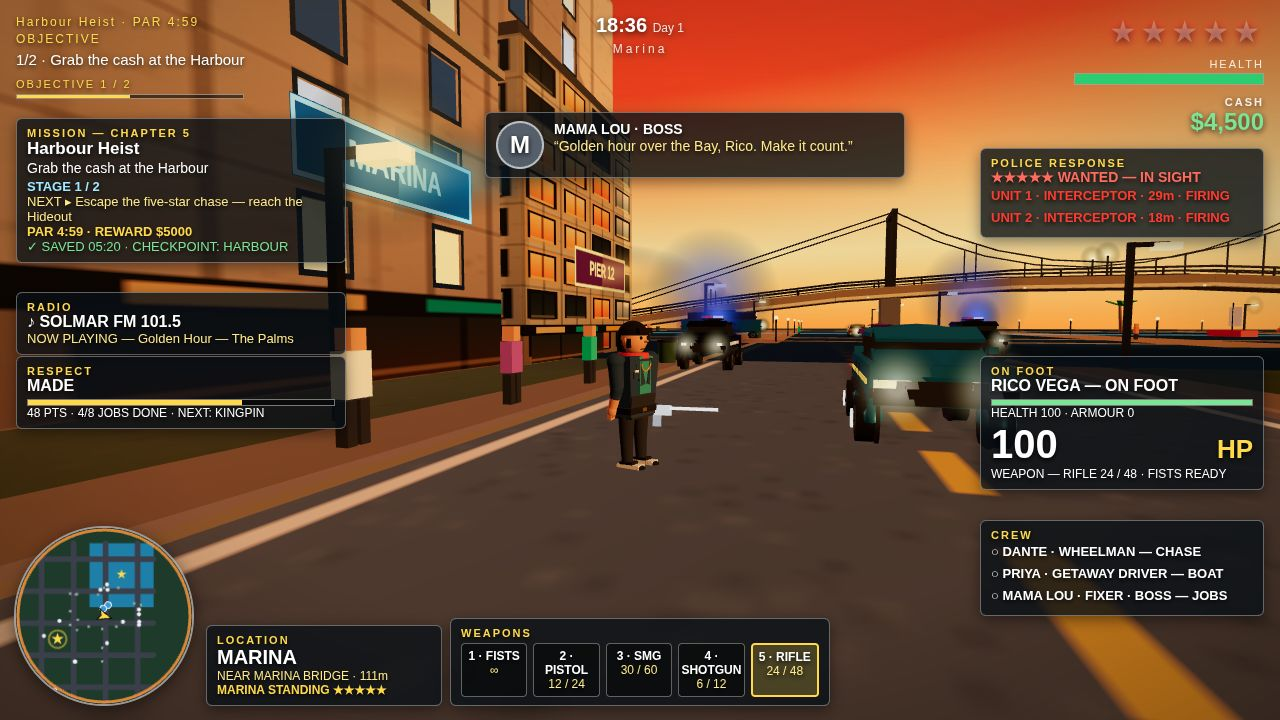
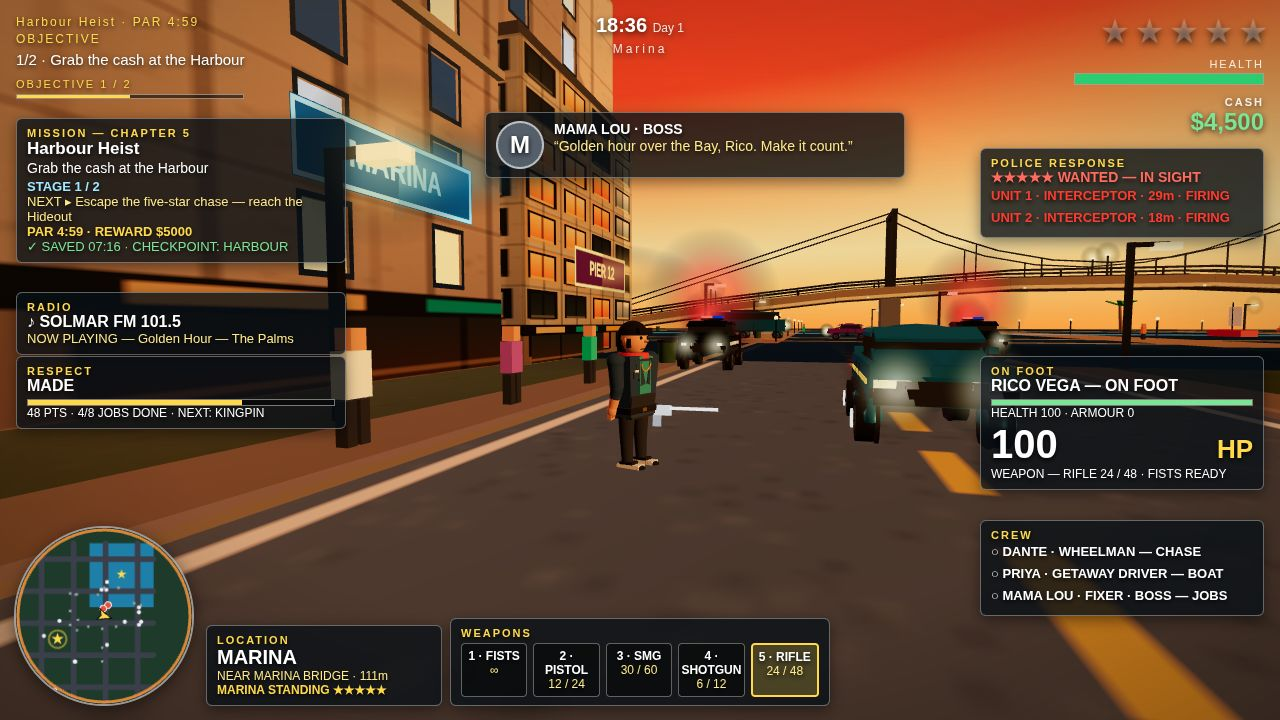
Round 20: cover OBJECTIVE readable + staged cover traffic/lights + west peds
- Cover left stack drops 72px (CONFIG.round20.coverStack 108/190/364/428,
  cover-only): dialogue no longer covers the OBJECTIVE rows (overlap
  8,352 -> 0 px2; gold 57 -> 220/261 px, white 527 -> 638 px), no new
  panel overlaps, respect still ends 501 < minimap 526.
- stageCoverTraffic: 2 staged sedans on the road ahead of the GT (far
  opposite lane with brake lights, near right lane with headlights),
  tracked relative to the car; distinct vehicles 2 -> 4/5 on screen.
- 3 extra staged peds: 1 crossing the road mid-frame + 2 west sidewalk
  (1 -> 3); visible peds 3 -> 6.
- All round 17/18/19 gates hold; test 2x ALL GREEN (252 PASS each).

diff --git a/game/src/main.js b/game/src/main.js
@@ -341,6 +341,11 @@ let coverShopfront = null;
 // target (re-asserted every frame while the shot is staged).
 let shotRoadblock = [];
 let shotRivals = [];
+// Round 20: staged cover traffic (stageCoverTraffic) — { car, dx, dz,
+// heading, key } offsets from the player car, re-asserted every frame
+// like the pursuit roadblock, so the two cars hold their framing at
+// any capture moment while the GT drives on.
+let shotTraffic = [];
 // Round 15: staged pedestrians that TRACK the player car (cover +
 // pursuit) — { ped, dx, dz } offsets from the car, re-asserted every
 // frame in the update loop. The car drives on during the HUD
@@ -1550,6 +1555,21 @@ function update(dt) {
     }
   }
 
+  // Round 20: staged cover traffic tracks the player car (same pattern
+  // as the roadblock above — the GT drives on during the HUD
+  // convergence wait, so fixed world spots would drift up-frame and
+  // shrink to dots by capture time). Staged cars are NOT in
+  // traffic.getCars() and NOT police cars, so nothing else moves them;
+  // the re-assertion is belt-and-braces against any drift.
+  if (SHOT === 'cover-chase' && player.currentCar && shotTraffic.length) {
+    const pc = player.currentCar;
+    for (const st of shotTraffic) {
+      if (!st.car) continue;
+      st.car.position.set(pc.position.x + st.dx, 0, pc.position.z + st.dz);
+      st.car.group.rotation.y = st.heading;
+    }
+  }
+
   // 5. missions.
   missions.update(dt, world, player, systems());
 
@@ -2448,6 +2468,47 @@ function stageCoverShopfront() {
 // exhaust smoke on the GT, peds TRACKED relative to the car (8 / 14 m
 // beyond it on the east sidewalk, 11 m on the west) so they hold their
 // size at capture instead of drifting up-frame as dots.
+// Round 20: two staged traffic cars on the road ahead of the GT (one
+// per lane, different depths) + their lights — the cover road read as
+// mostly empty asphalt with one far interceptor + one red car. The cars
+// are real sculpted sedans from the shared factory (createCar via
+// makeCar, the same factory traffic.js uses), staged like the pursuit
+// rivals and tracked in shotTraffic; the far car shows its BRAKE lights
+// (rear to the camera), the near car its HEADLIGHTS (front to the
+// camera) — the same dusk values traffic.js applies to its own cars.
+// Cover-only: shotTraffic is empty on every other shot, and the cars
+// are never added to traffic.getCars() or police.policeCars, so no
+// gameplay system, panel count or other shot sees them.
+function stageCoverTraffic() {
+  const cfg = CONFIG.round20?.traffic || {};
+  const lc = CONFIG.round20?.lights || {};
+  const car = player.currentCar;
+  if (!car) return [];
+  const made = [];
+  for (const key of ['far', 'near']) {
+    const t = cfg[key];
+    if (!t) continue;
+    const c = makeCar({
+      position: { x: car.position.x + t.dx, y: 0, z: car.position.z + t.dz },
+      heading: t.heading ?? 0, model: t.model || 'sedan',
+      colour: t.colour ?? 0xc23a2a, driver: 'ai',
+    });
+    c.kind = 'cover-traffic';
+    c.speed = 0;
+    c.staged = true;
+    if (t.lights === 'head') {
+      if (c.headMat) c.headMat.emissiveIntensity = lc.headEmissive ?? 1.8;
+      if (Array.isArray(c.headGlows)) for (const g of c.headGlows) if (g) g.opacity = lc.headGlowOpacity ?? 0.95;
+      if (Array.isArray(c.headGlowSprites)) for (const s of c.headGlowSprites) if (s && s.scale) s.scale.setScalar(lc.headGlowScale ?? 1.8);
+    } else if (t.lights === 'tail') {
+      if (c.tailMat) c.tailMat.emissiveIntensity = lc.tailEmissive ?? 2.0;
+      if (Array.isArray(c.tailGlows)) for (const g of c.tailGlows) if (g) g.opacity = lc.tailGlowOpacity ?? 0.95;
+    }
+    shotTraffic.push({ car: c, dx: t.dx, dz: t.dz, heading: t.heading ?? 0, key });
+    made.push(c);
+  }
+  return made;
+}
 function stageCoverChase() {
   state = 'playing';
   showOnly(null);
@@ -2532,6 +2593,15 @@ function stageCoverChase() {
     { roadX: 40, side: 1, z: coverCarZ - 8, heading: -Math.PI / 2 },
     { roadX: 40, side: 1, z: coverCarZ - 14, heading: -Math.PI / 2 },
     { roadX: 40, side: -1, z: coverCarZ - 11, heading: Math.PI / 2 },
+    // Round 20: one ped CROSSING the road mid-frame (side 0 = road
+    // centre, heading across it) + two extra on the west sidewalk
+    // (1 -> 3 there) — the road's left side balances the right, and
+    // the crossing ped puts a person ON the road, not just beside it.
+    // All three ride the same trackStagedPeds offsets as the original
+    // three, so they hold their framing at capture.
+    { roadX: 40, side: 0, z: coverCarZ - 18, heading: Math.PI / 2 },
+    { roadX: 40, side: -1, z: coverCarZ - 20, heading: Math.PI / 2 },
+    { roadX: 40, side: -1, z: coverCarZ - 26, heading: Math.PI / 2 },
   ]);
   trackStagedPeds(coverPlaced);
   // Round 18: the three staged cover peds wear three DIFFERENT vivid
@@ -2539,9 +2609,11 @@ function stageCoverChase() {
   // the variety is deterministic, not a lucky rng draw — the mesh
   // recolour rides on syncPersonMeshes (person.shirt change) and the
   // scale rides on the cached mesh (sync never resets scale).
+  // Round 20: the three new peds get vivid shirts too (green / purple
+  // / red) with varied heights, same mechanism.
   {
-    const coverShirts = ['#e74c3c', '#3498db', '#f39c12'];
-    const coverScales = [1.07, 0.94, 1.0];
+    const coverShirts = ['#e74c3c', '#3498db', '#f39c12', '#2ecc71', '#9b59b6', '#e74c3c'];
+    const coverScales = [1.07, 0.94, 1.0, 1.02, 0.96, 1.05];
     coverPlaced.forEach((ped, i) => {
       if (!ped) return;
       ped.shirt = coverShirts[i % coverShirts.length];
@@ -2549,6 +2621,9 @@ function stageCoverChase() {
       if (mesh) mesh.scale.setScalar(coverScales[i % coverScales.length]);
     });
   }
+  // Round 20: the two staged traffic cars on the road ahead of the GT
+  // (stageCoverTraffic — one per lane, different depths, lights on).
+  stageCoverTraffic();
   // Round 18: warm shopfront + SOLMAR sign + edge trim on the nearest
   // tower face ahead (staging-only, cover frame only).
   stageCoverShopfront();
@@ -2558,15 +2633,31 @@ function stageCoverChase() {
   // clear of the heli zone (right edge 536 < heli bbox left ~580)
   // and of the clock (x 596-647). The round-18 centred box (x
   // 360-920) overlapped the heli bbox by ~7,800 px^2.
+  // Round 20: the WHOLE cover left stack drops 72 px (CONFIG.round20
+  // coverStack) — the round-19 dialogue box (top 36) covered the
+  // legacy OBJECTIVE block (bottom 99): the "OBJECTIVE" title was half
+  // cut and the "1/2 · ..." line fully hidden. Dialogue top 108
+  // clears it; mission/radio/respect shift by the same 72 px, so no
+  // new overlap appears and respect still ends above the minimap.
+  // Cover-only inline styles — hud.js defaults and every other shot
+  // are untouched.
   {
     const dlgCfg = CONFIG.round19?.coverDialogue || {};
+    const stackCfg = CONFIG.round20?.coverStack || {};
     const dlg = document.getElementById('hud-dialogue');
     if (dlg && typeof dlgCfg.left === 'number' && typeof dlgCfg.width === 'number') {
       dlg.style.left = `${dlgCfg.left}px`;
-      dlg.style.top = `${dlgCfg.top ?? 112}px`;
+      dlg.style.top = `${stackCfg.dialogueTop ?? dlgCfg.top ?? 112}px`;
       dlg.style.transform = 'none';
       dlg.style.width = `${dlgCfg.width}px`;
     }
+    const setTop = (id, top) => {
+      const el = document.getElementById(id);
+      if (el && typeof top === 'number') el.style.top = `${top}px`;
+    };
+    setTop('hud-mission-panel', stackCfg.missionTop);
+    setTop('hud-radio', stackCfg.radioTop);
+    setTop('hud-respect', stackCfg.respectTop);
   }
   shotRadio = { station: 'SOLMAR FM 101.5', song: 'Golden Hour — The Palms' };
   setShotDialogue('DANTE', 'Wheelman', 'Four stars and a chopper on you, Rico — Marina can wait, lose them first!');
@@ -3423,6 +3514,23 @@ window.__solmar = {
       ricoRifle: Boolean(player._aimRifle),
       rifleMeshes,
       coverShopfront: coverShopfront || null,
+    };
+  },
+  // Round 20 probe: the cover stack shift + staged cover traffic +
+  // staged cover peds, read straight off the live scene (runtime
+  // facts, not config claims). coverTraffic is empty on every shot
+  // but the cover chase; stagedPeds is the tracked-ped list (cover +
+  // pursuit) with world positions + shirt colours.
+  get round20() {
+    return {
+      coverStack: CONFIG.round20?.coverStack || null,
+      coverTraffic: shotTraffic.map((st) => ({
+        key: st.key, x: +st.car.position.x.toFixed(1), z: +st.car.position.z.toFixed(1),
+        heading: +(st.heading || 0).toFixed(2),
+      })),
+      stagedPeds: shotPeds.map((tp) => ({
+        x: +tp.ped.position.x.toFixed(1), z: +tp.ped.position.z.toFixed(1), shirt: tp.ped.shirt,
+      })),
     };
   },
   // Round 14: project a world point to normalised screen coordinates

diff --git a/main.ts b/main.ts
@@ -437,6 +437,50 @@ if (!existsSync(gameFavicon)) {
   }
   console.log(`round 19 (re-touch): heli followOffset (${fo19.x}, ${fo19.y}, ${fo19.z}) + dialogue right edge ${dlg19.left + dlg19.width} < heli bbox 580`);
 }
+// Round 20: the cover left stack must clear the legacy OBJECTIVE block
+// (round 19: the dialogue box at top 36 covered it — the "OBJECTIVE"
+// title half cut, the "1/2 · ..." line fully hidden), and the cover
+// road must carry staged traffic + a crossing ped (round 19: mostly
+// empty asphalt). Validate the CONFIG.round20 tuning block in
+// config.js and its consumers, with REAL parsed values:
+//   - coverStack drops the whole stack 72 px (dialogue 108, mission
+//     190, radio 364, respect 428): dialogue top clears the objective
+//     block bottom (99) with a 9 px gap, the inter-panel gaps match
+//     round 19 (9 / 44 / 1 px), and respect still ends (428 + 73 =
+//     501) above the minimap (top 526);
+//   - traffic far/near sit one per lane (|dx| <= 7 m, 10-40 m out),
+//     far rear-to-camera (heading PI, tail lights) and near
+//     front-to-camera (heading 0, headlights);
+//   - main.js defines stageCoverTraffic, tracks it in shotTraffic,
+//     and consumes CONFIG.round20 (stack + traffic + peds + lights).
+{
+  const cfg20 = (await import(join(gameDir, 'src', 'config.js')))?.CONFIG?.round20;
+  const stack = cfg20?.coverStack;
+  const stackOk = stack?.dialogueTop === 108 && stack?.missionTop === 190
+    && stack?.radioTop === 364 && stack?.respectTop === 428
+    && stack.dialogueTop > 99 && stack.missionTop - (stack.dialogueTop + 73) === 9
+    && stack.radioTop - (stack.missionTop + 130) === 44
+    && stack.respectTop - (stack.radioTop + 63) === 1
+    && stack.respectTop + 73 < 526;
+  const tf = cfg20?.traffic?.far, tn = cfg20?.traffic?.near;
+  const trafficOk = tf && tn
+    && Math.abs(tf.dx) <= 7 && tf.dz <= -10 && tf.dz >= -40 && tf.heading === Math.PI && tf.lights === 'tail'
+    && Math.abs(tn.dx) <= 7 && tn.dz <= -10 && tn.dz >= -40 && tn.heading === 0 && tn.lights === 'head';
+  const pedsOk = cfg20?.peds?.cross?.side === 0
+    && Array.isArray(cfg20?.peds?.westExtra) && cfg20.peds.westExtra.length === 2;
+  if (!stackOk || !trafficOk || !pedsOk) {
+    throw new Error('missing input: CONFIG.round20 incomplete in config.js — coverStack must be 108/190/364/428 (dialogue clears OBJECTIVE bottom 99, respect ends 501 < minimap 526), traffic far/near must sit one per lane with tail/head lights, peds must hold 1 crossing + 2 west-extra');
+  }
+  const mainSrc20 = readFileSync(join(gameDir, 'src', 'main.js'), 'utf-8');
+  const consumersOk = mainSrc20.includes('CONFIG.round20')
+    && mainSrc20.includes('function stageCoverTraffic')
+    && mainSrc20.includes('shotTraffic')
+    && mainSrc20.includes('stageCoverTraffic()');
+  if (!consumersOk) {
+    throw new Error('missing input: main.js must consume CONFIG.round20 — define stageCoverTraffic, track it in shotTraffic, and call it from stageCoverChase');
+  }
+  console.log(`round 20: cover stack ${stack.dialogueTop}/${stack.missionTop}/${stack.radioTop}/${stack.respectTop} (respect ends ${stack.respectTop + 73} < minimap 526) + traffic far (${tf.dx}, ${tf.dz}, tail) / near (${tn.dx}, ${tn.dz}, head) + crossing ped + 2 west peds`);
+}
 const gameSrc = join(gameDir, 'src');
 const gameJsFiles = existsSync(gameSrc)
   ? readdirSync(gameSrc).filter((name) => name.endsWith('.js'))

diff --git a/game/src/config.js b/game/src/config.js
@@ -849,6 +849,45 @@ export const CONFIG = {
       muzzleHaloScale: 2.5, muzzleHaloOpacity: 0.9,
     },
   },
+  round20: {
+    // Cover left-stack shift (stageCoverChase, cover-only inline
+    // styles — hud.js defaults and every other shot are untouched):
+    // the round-19 dialogue box (top 36) covered the legacy OBJECTIVE
+    // block (top 14, bottom 99 — measured on the round-19 build): the
+    // "OBJECTIVE" title (y 31-48) was half cut and the "1/2 · Pick up
+    // the package at the Marina" line (y 51-68) fully hidden behind it.
+    // The whole stack drops 72 px so the dialogue (top 108) clears the
+    // objective with a 9 px gap, the inter-panel gaps stay exactly as
+    // round 19 (dialogue->mission 9 px, mission->radio 44 px,
+    // radio->respect 1 px), and respect still ends at 501, above the
+    // minimap (top 526). Panel heights (round 19): dialogue 73,
+    // mission 130, radio 63, respect 73.
+    coverStack: { dialogueTop: 108, missionTop: 190, radioTop: 364, respectTop: 428 },
+    // Cover traffic (stageCoverTraffic): two staged cars on the road
+    // ahead of the GT, one per lane at different depths, tracked
+    // relative to the player car every frame like the pursuit
+    // roadblock. dx/dz are metres from the GT (picture-ahead is -z).
+    // far: opposite lane, 30 m out, rear to the camera (heading PI) —
+    // its BRAKE lights face the camera. near: right lane, 14 m out,
+    // front to the camera (heading 0) — its HEADLIGHTS face the camera.
+    traffic: {
+      far: { dx: -3.5, dz: -30, heading: Math.PI, model: 'sedan', colour: 0xe67e22, lights: 'tail' },
+      near: { dx: 3.5, dz: -14, heading: 0, model: 'sedan', colour: 0xf5f0e6, lights: 'head' },
+    },
+    // Cover peds (stageCoverChase placePeds, on top of the 3 staged in
+    // round 18/19): one CROSSING the road mid-frame (side 0 = road
+    // centre, heading across) + two extra on the west sidewalk
+    // (1 -> 3 there), so the left side of the frame balances the
+    // right. dz is metres beyond the GT at staging time.
+    peds: {
+      cross: { side: 0, dz: -18, heading: Math.PI / 2 },
+      westExtra: [{ side: -1, dz: -20, heading: Math.PI / 2 }, { side: -1, dz: -26, heading: Math.PI / 2 }],
+    },
+    // Staged-traffic lights: the same dusk values traffic.js applies
+    // to its own cars (_applyDuskHeadlights), plus a brake-light flare
+    // for the far car's tail (tailMat emissive + tail-glow opacity).
+    lights: { headEmissive: 1.8, headGlowOpacity: 0.95, headGlowScale: 1.8, tailEmissive: 2.0, tailGlowOpacity: 0.95 },
+  },
 
   // ---- Player movement (metres / second) ----
   player: {
